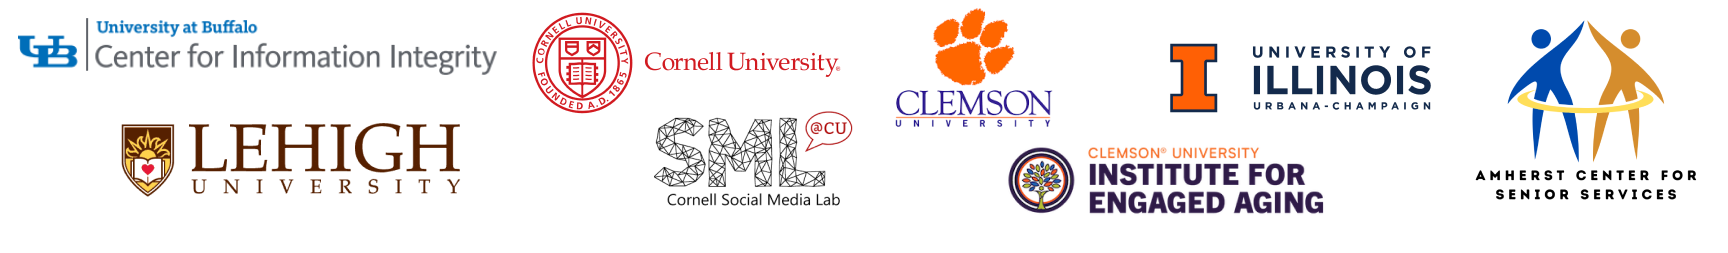
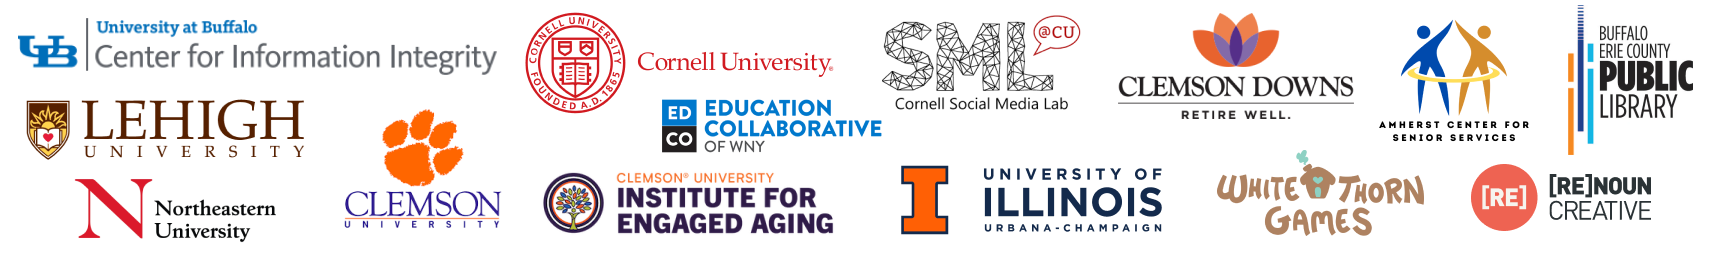
description info dart

Changed region(s): [[0.0, 0.0277, 1.0, 0.9407]]

diff --git a/app/projects/[id]/page.tsx b/app/projects/[id]/page.tsx
@@ -69,22 +69,46 @@ const projectData: Record<string, Project> = {
       },
       {
         type: "richText",
-        heading: "Research collaboration",
+        heading: "Building Defenses Through Research Collaboration",
         paragraphs: [
-          "To address this problem, a multi-university research collaboration led by the University at Buffalo launched the Deception Awareness and Resilience Training (DART) initiative, supported by a $5 million National Science Foundation Convergence Accelerator grant. The project brings together researchers from institutions including Cornell University, Clemson University, Lehigh University, and the University of Illinois to develop tools that help people recognize and resist online deception.",
+          {
+            text: "To address this problem, a multi-university research collaboration led by the University at Buffalo launched DART Collective (Deception Awareness and Resilience Training), a nonprofit supported by a $5 million National Science Foundation Convergence Accelerator grant. The project brings together researchers from institutions including Cornell University, Lehigh University, Clemson University, Northeastern University, and the University of Illinois to develop tools that help people recognize and resist online deception.",
+            links: [
+              {
+                label: "DART Collective (Deception Awareness and Resilience Training)",
+                href: "https://dartcollective.net/",
+              },
+                            {
+                label: "$5 million National Science Foundation Convergence Accelerator grant",
+                href: "https://arts-sciences.buffalo.edu/news-and-events/recent-news/2022/october/dart-online-scams.html",
+              },
+            ],
+          },
         ],
       },
       {
         type: "image",
         src: "/dart/dart_team.png",
         alt: "DART initiative research collaboration",
-        caption: "Image 2",
+        caption: "Partner institutions collaborating on the DART project to research and develop tools that help people recognize and resist online scams.",
       },
       {
         type: "richText",
-        heading: "My role",
+        heading: "Product Design and Development",
         paragraphs: [
-          "As a technical lead and founding engineer, I worked with researchers and educators across the collaboration to design and build DART Academy, an interactive learning system that teaches users to identify scams through realistic simulations, structured lessons, and hands-on practice. I led product design and prototyping in Figma and participated in 100+ customer discovery interviews through the NSF National I-Corps program, translating user insights into the platform's learning flows and features.",
+          "As a technical lead and founding engineer, I worked with researchers and educators across the collaboration to design and build **DART Academy**, an interactive learning system that teaches users to identify scams through realistic simulations, structured lessons, and hands-on practice. I led product design and prototyping in Figma and contributed to NSF National I-Corps customer discovery interviews, translating insights from 109 interviews into the platform’s user flows and features.",
+        ],
+      },
+      {
+        type: "infographic",
+        src: "/dart/interviews.png",
+        alt: "DART Academy learning platform interface",
+        caption: "Organizations interviewed during the NSF National I-Corps customer discovery process, including stakeholders across aging services, education, and financial services sectors. Insights from these 109 interviews informed the design of the DART Academy platform.",
+      },
+      {
+        type: "richText",
+        heading: "Platform Architecture & Engineering Leadership",
+        paragraphs: [
           "I architected and built the system's learning management infrastructure, including the course player, content authoring tools, and interactive training framework. I also assembled and led a rotating development team of student engineers over multiple years, mentoring developers through system design, implementation, and deployment as the platform evolved.",
         ],
       },
